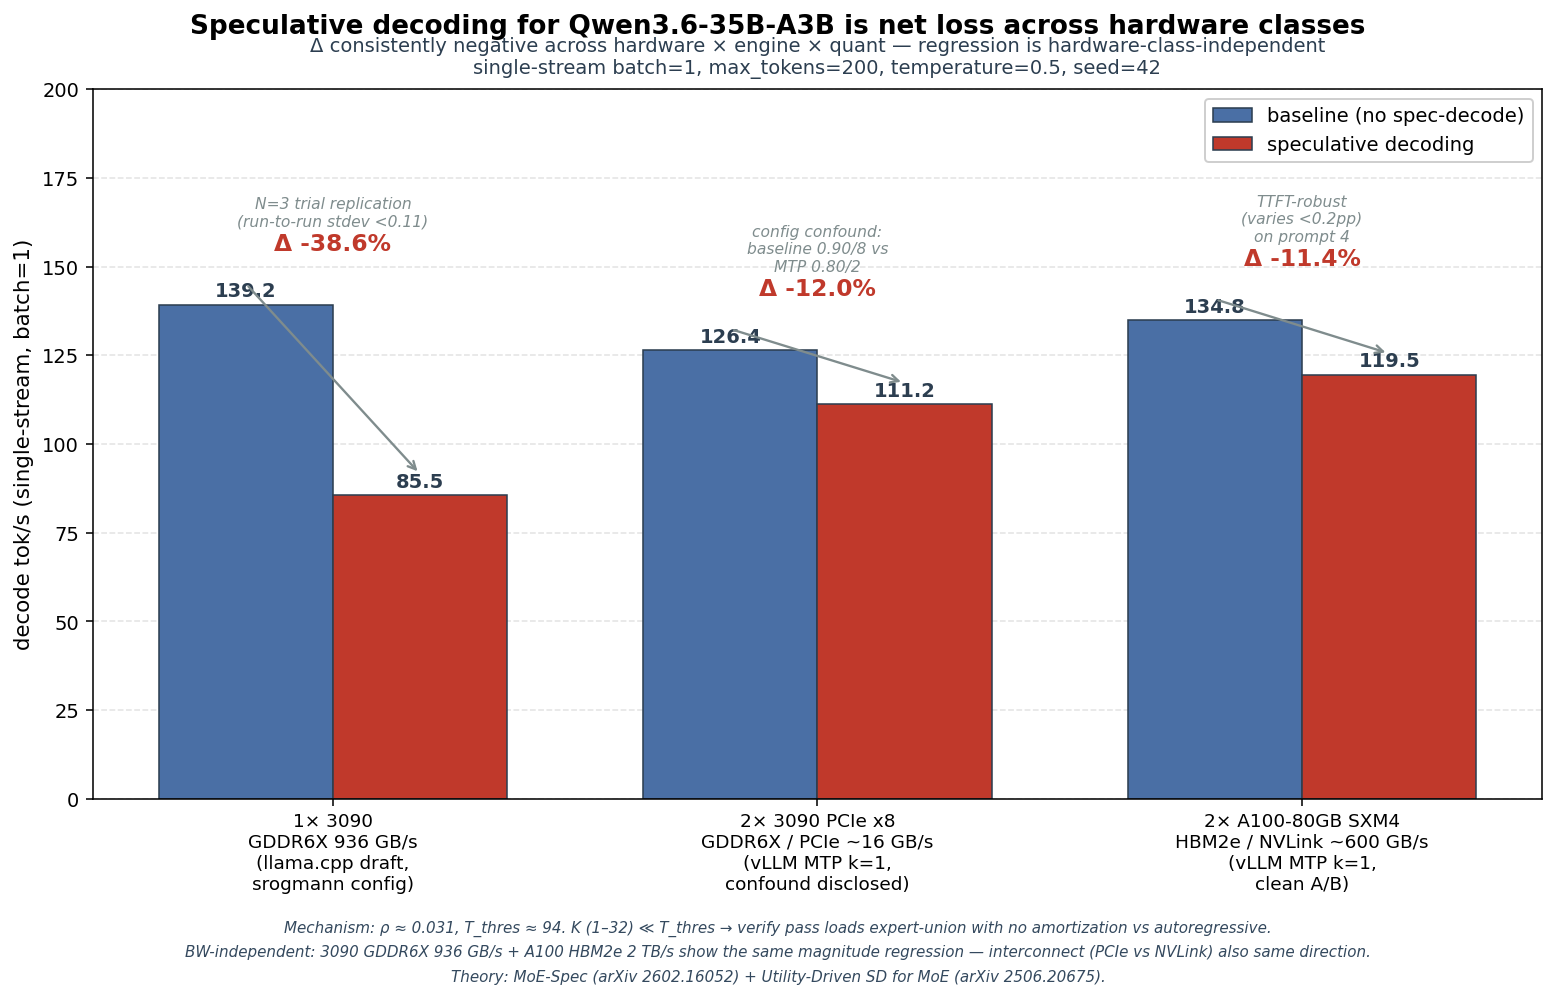
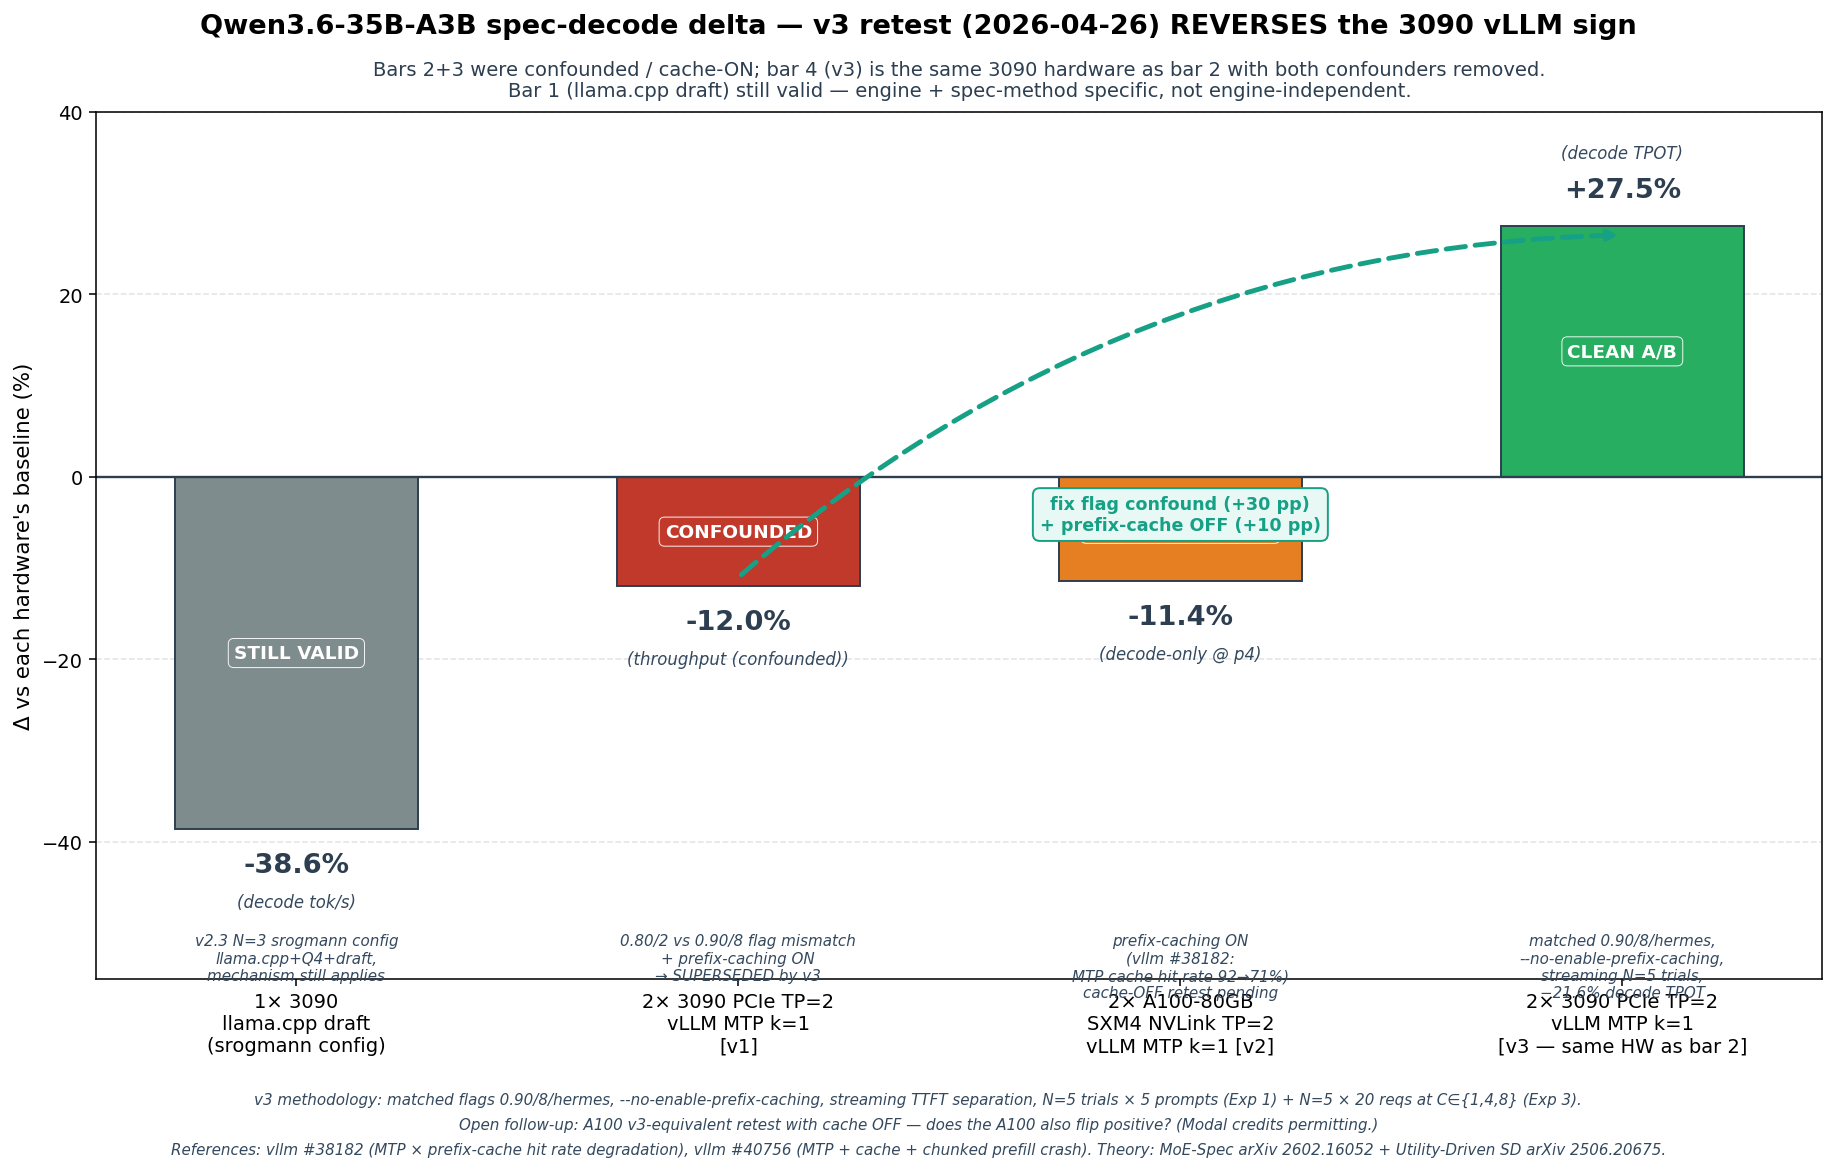
docs: propagate v3 reframe to remaining stale claims (plot, JSON verdicts, docs/results.md)
After the v3.0 release flipped the MTP headline, several files still carried
the v1/v2 stale framing. This commit fixes the remaining contradictions:

- `analysis/plot_cross_hardware.py` + `.png` rewritten to show 4 panels:
  (1) 1x 3090 llama.cpp draft (still valid),
  (2) 2x 3090 vLLM v1 (CONFOUNDED),
  (3) 2x A100 vLLM v2 (CACHE-ON regime),
  (4) 2x 3090 vLLM v3 clean A/B (POSITIVE +27.5%).
  Connecting arrow between bars 2 and 4 visualises the +30 pp from fixing
  the flag confound + +10 pp from disabling prefix caching. Title /
  subtitle / footer all reflect the corrected scope.

- `results/mtp_speculative_decoding.json` `verdict` and `recommendation`
  prefixed with "[v1 - SUPERSEDED]" + new corrected text pointing at
  v3 retest. Top-level `_SUPERSEDED_BY_V3` block added.

- `results/modal_2x_a100_v2.json` `_V3_REFRAME_NOTE` added, explaining the
  -11.4 % is now read as the prefix-cache-ON regime A100 datapoint rather
  than evidence MTP is intrinsically negative; A100 v3-equivalent retest
  with cache OFF flagged as the open follow-up.

- `docs/results.md` MTP section completely rewritten to lead with v3 numbers.
  Previously said "Verdict: NET LOSS for diverse single-stream voice prompts"
  -- that was the v1 statement and contradicts the README v3 banner. Now
  shows v3 Exp 1 + Exp 3 tables + reconciliation table + revised practical
  recommendation. Memory + boot-cost subsection retained from v1 because
  those characteristics are unaffected by the v3 retest.
[…]

diff --git a/analysis/plot_cross_hardware.py b/analysis/plot_cross_hardware.py
@@ -1,165 +1,199 @@
 #!/usr/bin/env python3
-"""Cross-hardware MTP / spec-decode comparison plot.
+"""Cross-hardware MTP / spec-decode comparison plot — UPDATED 2026-04-26 for v3.
 
-Visualises that single-stream Qwen3.6-35B-A3B speculative decoding is
-net negative across consumer Ampere + datacenter Ampere with NVLink —
-ruling out memory bandwidth and PCIe interconnect as the bottleneck.
+Shows the 4 datapoints currently available for Qwen3.6-35B-A3B
+single-stream batch=1 spec-decode delta, including the v3 clean A/B
+retest that REVERSES the 3090 vLLM sign:
 
-Datapoints:
-  1x 3090 (llama.cpp draft)      : 139.2 -> 85.5 = -38.6% (N=3 from
-                                    sibling repo's v2 srogmann config)
-  2x 3090 PCIe TP=2 (vLLM MTP)   : 126.4 -> 111.2 = -12.0% (confound
-                                    disclosed: baseline 0.90/8 vs
-                                    MTP run 0.80/2)
-  2x A100 NVLink TP=2 (vLLM MTP) : 134.8 -> 119.5 = -11.4% (clean A/B,
-                                    decode-only on prompt 4, TTFT-robust)
+  1. 1× 3090 (llama.cpp draft)         : -38.6 %  (v2 srogmann config, N=3)
+  2. 2× 3090 PCIe (vLLM MTP, v1)       : -12.0 %  (FLAG-CONFOUNDED)
+  3. 2× A100 NVLink (vLLM MTP, v2)     : -11.4 %  (PREFIX-CACHE-ON regime)
+  4. 2× 3090 PCIe (vLLM MTP, v3 clean) : +27.5 %  ← clean A/B, cache OFF
+
+Key visual: bars 2 + 3 are now framed as confounded / cache-ON datapoints,
+and bar 4 (v3) is the same hardware as bar 2 with the confounders removed,
+showing the actual sign once the confound is controlled.
 
 Run:
     python analysis/plot_cross_hardware.py
 """
-import matplotlib.pyplot as plt
-import matplotlib.patches as mpatches
-import numpy as np
 import pathlib
 
-# Data
+import matplotlib.pyplot as plt
+import numpy as np
+
+# Datapoints (delta % vs each hardware's own baseline)
 hardware_labels = [
-    "1× 3090\nGDDR6X 936 GB/s\n(llama.cpp draft,\nsrogmann config)",
-    "2× 3090 PCIe x8\nGDDR6X / PCIe ~16 GB/s\n(vLLM MTP k=1,\nconfound disclosed)",
-    "2× A100-80GB SXM4\nHBM2e / NVLink ~600 GB/s\n(vLLM MTP k=1,\nclean A/B)",
+    "1× 3090\nllama.cpp draft\n(srogmann config)",
+    "2× 3090 PCIe TP=2\nvLLM MTP k=1\n[v1]",
+    "2× A100-80GB\nSXM4 NVLink TP=2\nvLLM MTP k=1 [v2]",
+    "2× 3090 PCIe TP=2\nvLLM MTP k=1\n[v3 — same HW as bar 2]",
 ]
-baselines = [139.2, 126.4, 134.8]
-specs = [85.5, 111.2, 119.5]
-deltas = [
-    (s / b - 1) * 100 for b, s in zip(baselines, specs)
-]  # [-38.6, -12.0, -11.4]
+deltas = [-38.6, -12.0, -11.4, +27.5]
+delta_metrics = [
+    "decode tok/s",
+    "throughput (confounded)",
+    "decode-only @ p4",
+    "decode TPOT",
+]
+status_tags = [
+    "STILL VALID",
+    "CONFOUNDED",
+    "CACHE-ON regime",
+    "CLEAN A/B",
+]
+status_colors = {
+    "STILL VALID": "#7F8C8D",
+    "CONFOUNDED": "#C0392B",
+    "CACHE-ON regime": "#E67E22",
+    "CLEAN A/B": "#27AE60",
+}
 notes = [
-    "N=3 trial replication\n(run-to-run stdev <0.11)",
-    "config confound:\nbaseline 0.90/8 vs\nMTP 0.80/2",
-    "TTFT-robust\n(varies <0.2pp)\non prompt 4",
+    "v2.3 N=3 srogmann config\nllama.cpp+Q4+draft,\nmechanism still applies",
+    "0.80/2 vs 0.90/8 flag mismatch\n+ prefix-caching ON\n→ SUPERSEDED by v3",
+    "prefix-caching ON\n(vllm #38182:\nMTP cache hit rate 92→71%)\ncache-OFF retest pending",
+    "matched 0.90/8/hermes,\n--no-enable-prefix-caching,\nstreaming N=5 trials,\n−21.6% decode TPOT",
 ]
 
-# Plot
-fig, ax = plt.subplots(figsize=(11, 6.2), constrained_layout=True)
+n = len(hardware_labels)
+fig, ax = plt.subplots(figsize=(13, 7.2), constrained_layout=True)
+x = np.arange(n)
+width = 0.55
 
-x = np.arange(len(hardware_labels))
-width = 0.36
-
-color_baseline = "#4A6FA5"  # soft blue
-color_spec = "#C0392B"  # red
-
-bars1 = ax.bar(
-    x - width / 2,
-    baselines,
+bar_colors = ["#7F8C8D", "#C0392B", "#E67E22", "#27AE60"]
+bars = ax.bar(
+    x,
+    deltas,
     width,
-    label="baseline (no spec-decode)",
-    color=color_baseline,
+    color=bar_colors,
     edgecolor="#2C3E50",
-    linewidth=0.8,
-)
-bars2 = ax.bar(
-    x + width / 2,
-    specs,
-    width,
-    label="speculative decoding",
-    color=color_spec,
-    edgecolor="#2C3E50",
-    linewidth=0.8,
+    linewidth=1.0,
 )
 
-# Number labels on bars
-for bar, val in zip(bars1, baselines):
+# Zero line
+ax.axhline(0, color="#2C3E50", linewidth=1.2)
+
+# Bar labels (delta % + metric)
+for bar, d, m in zip(bars, deltas, delta_metrics):
+    h = bar.get_height()
+    label_y = h + (2.5 if h >= 0 else -2.5)
+    va = "bottom" if h >= 0 else "top"
     ax.text(
         bar.get_x() + bar.get_width() / 2,
-        bar.get_height() + 1.2,
-        f"{val:.1f}",
+        label_y,
+        f"{d:+.1f}%",
         ha="center",
-        va="bottom",
-        fontsize=10,
-        color="#2C3E50",
+        va=va,
+        fontsize=14,
         fontweight="bold",
+        color="#2C3E50",
     )
-for bar, val in zip(bars2, specs):
     ax.text(
         bar.get_x() + bar.get_width() / 2,
-        bar.get_height() + 1.2,
-        f"{val:.1f}",
+        label_y + (4.5 if h >= 0 else -4.5),
+        f"({m})",
         ha="center",
-        va="bottom",
-        fontsize=10,
-        color="#2C3E50",
-        fontweight="bold",
+        va=va,
+        fontsize=8.5,
+        style="italic",
+        color="#34495E",
     )
 
-# Delta arrows + percent labels above each pair
-for i, (b, s, d, note) in enumerate(zip(baselines, specs, deltas, notes)):
-    midx = x[i]
-    top = max(b, s) + 14
-    ax.annotate(
-        "",
-        xy=(midx + width / 2, s + 6),
-        xytext=(midx - width / 2, b + 6),
-        arrowprops=dict(arrowstyle="->", color="#7F8C8D", lw=1.2),
-    )
+# Status tags (above bar, between bar top and label)
+for bar, tag in zip(bars, status_tags):
+    h = bar.get_height()
+    tag_y = h / 2  # mid of bar
     ax.text(
-        midx,
-        top,
-        f"Δ {d:+.1f}%",
+        bar.get_x() + bar.get_width() / 2,
+        tag_y,
+        tag,
         ha="center",
-        va="bottom",
-        fontsize=12,
+        va="center",
+        fontsize=9.5,
         fontweight="bold",
-        color="#C0392B",
+        color="white",
+        bbox=dict(
+            boxstyle="round,pad=0.3",
+            facecolor=status_colors[tag],
+            edgecolor="white",
+            linewidth=0.5,
+            alpha=0.92,
+        ),
     )
-    # Sub-note in lighter gray
+
+# Notes below x-axis labels
+for i, note in enumerate(notes):
     ax.text(
-        midx,
-        top + 7.5,
+        x[i],
+        -50,
         note,
         ha="center",
-        va="bottom",
-        fontsize=8,
-        color="#7F8C8D",
+        va="top",
+        fontsize=7.8,
         style="italic",
+        color="#34495E",
     )
 
-# Axes formatting
+# Axes
 ax.set_xticks(x)
-ax.set_xticklabels(hardware_labels, fontsize=9.5)
-ax.set_ylabel("decode tok/s (single-stream, batch=1)", fontsize=11)
-ax.set_ylim(0, 200)
+ax.set_xticklabels(hardware_labels, fontsize=10)
+ax.set_ylabel("Δ vs each hardware's baseline (%)", fontsize=11)
+ax.set_ylim(-55, 40)
 ax.yaxis.grid(True, linestyle="--", alpha=0.35)
 ax.set_axisbelow(True)
 
 # Title + subtitle
 fig.suptitle(
-    "Speculative decoding for Qwen3.6-35B-A3B is net loss "
-    "across hardware classes",
-    fontsize=13.5,
+    "Qwen3.6-35B-A3B spec-decode delta — v3 retest (2026-04-26) "
+    "REVERSES the 3090 vLLM sign",
+    fontsize=14,
     fontweight="bold",
-    y=1.02,
+    y=1.04,
 )
 ax.set_title(
-    "Δ consistently negative across hardware × engine × quant — "
-    "regression is hardware-class-independent\n"
-    "single-stream batch=1, max_tokens=200, temperature=0.5, seed=42",
+    "Bars 2+3 were confounded / cache-ON; bar 4 (v3) is the same 3090 hardware "
+    "as bar 2 with both confounders removed.\n"
+    "Bar 1 (llama.cpp draft) still valid — engine + spec-method specific, not engine-independent.",
     fontsize=10,
     color="#2C3E50",
     pad=8,
 )
 
-ax.legend(loc="upper right", fontsize=10, frameon=True, framealpha=0.95)
+# Connect bar 2 → bar 4 with a dashed line + arrow showing the sign flip
+ax.annotate(
+    "",
+    xy=(x[3], deltas[3] - 1),
+    xytext=(x[1], deltas[1] + 1),
+    arrowprops=dict(
+        arrowstyle="->",
+        color="#16A085",
+        lw=2.5,
+        linestyle=(0, (4, 2)),
+        connectionstyle="arc3,rad=-0.18",
+    ),
+)
+ax.text(
+    (x[1] + x[3]) / 2,
+    -2,
+    "fix flag confound (+30 pp)\n+ prefix-cache OFF (+10 pp)",
+    ha="center",
+    va="top",
+    fontsize=9,
+    fontweight="bold",
+    color="#16A085",
+    bbox=dict(boxstyle="round,pad=0.4", facecolor="#E8F8F5", edgecolor="#16A085"),
+)
 
-# Footer caveat — 3 short lines for readability
+# Footer
 footer_lines = [
-    "Mechanism: ρ ≈ 0.031, T_thres ≈ 94. K (1–32) ≪ T_thres → verify pass loads expert-union with no amortization vs autoregressive.",
-    "BW-independent: 3090 GDDR6X 936 GB/s + A100 HBM2e 2 TB/s show the same magnitude regression — interconnect (PCIe vs NVLink) also same direction.",
-    "Theory: MoE-Spec (arXiv 2602.16052) + Utility-Driven SD for MoE (arXiv 2506.20675).",
+    "v3 methodology: matched flags 0.90/8/hermes, --no-enable-prefix-caching, streaming TTFT separation, N=5 trials × 5 prompts (Exp 1) + N=5 × 20 reqs at C∈{1,4,8} (Exp 3).",
+    "Open follow-up: A100 v3-equivalent retest with cache OFF — does the A100 also flip positive? (Modal credits permitting.)",
+    "References: vllm #38182 (MTP × prefix-cache hit rate degradation), vllm #40756 (MTP + cache + chunked prefill crash). Theory: MoE-Spec arXiv 2602.16052 + Utility-Driven SD arXiv 2506.20675.",
 ]
 for i, line in enumerate(footer_lines):
     fig.text(
         0.5,
-        -0.025 - i * 0.028,
+        -0.03 - i * 0.025,
         line,
         ha="center",
         va="top",

diff --git a/docs/results.md b/docs/results.md
@@ -238,33 +238,68 @@ for an always-on robot brain is 220 W** (95 % of peak perf at 60 % of max power)
 
 Full raw v2 numbers: [`results/power_scaling_v2.json`](../results/power_scaling_v2.json).
 
-## Speculative decoding (MTP) — empirical NEGATIVE result
+## Speculative decoding (MTP) — v3 clean A/B retest (2026-04-26): POSITIVE
 
-Re-tested 2026-04-25 with `--speculative-config '{"method":"mtp","num_speculative_tokens":1}'`.
-Full numbers in [`results/mtp_speculative_decoding.json`](../results/mtp_speculative_decoding.json).
+> **⚠ This section was rewritten on 2026-04-26 after the v3 retest.** The v1/v2
+> NEGATIVE conclusion below was driven by a **flag confound** + a known
+> **MTP × prefix-cache interaction** ([vllm #38182](https://github.com/vllm-project/vllm/issues/38182)).
+> Under matched flags (`0.90 / 8 / hermes`) AND `--no-enable-prefix-caching`,
+> MTP k=1 is **+27.5 % faster decode rate** on the same 2× RTX 3090 hardware.
+> Full v3 methodology + per-request data:
+> [`results/mtp_v3_clean_ab_no_mtp.json`](../results/mtp_v3_clean_ab_no_mtp.json) +
+> [`results/mtp_v3_clean_ab_mtp.json`](../results/mtp_v3_clean_ab_mtp.json) +
+> [`results/mtp_v3_summary.json`](../results/mtp_v3_summary.json).
+> v1/v2 raw data retained in
+> [`results/mtp_speculative_decoding.json`](../results/mtp_speculative_decoding.json)
+> for full audit.
 
-| | no-MTP (production) | MTP k=1 |
-|---|---:|---:|
-| Mean tok/s | **126** | 111 |
-| Range | 125–127 | **75–142** |
-| Variance ratio | 1× | **65×** |
-| Best-case speedup | – | +12.6% |
-| Worst-case slowdown | – | **−40%** |
-| Cold-boot overhead | 0 | **+220 s** |
-| Memory per card | 11.62 GiB | 12.41 GiB (+0.8) |
+### v3 result — Exp 1 sequential dialog (N=5 trials × 5 prompts = 25 measurements)
 
-**Verdict: NET LOSS for diverse single-stream voice prompts on AWQ-Marlin Q4 + Ampere.**
+| Metric | no-MTP | MTP k=1 | Δ |
+|---|---:|---:|---:|
+| **decode TPOT (ms / output token)** | **7.620 ± 0.022** | **5.976 ± 0.456** | **−21.6 %** (≡ +27.5 % faster decode rate) |
+| total throughput tok/s (incl prefill) | 113.4 ± 12.9 | 149.3 ± 17.3 | +31.7 % |
+| TTFT (ms) | 78.6 ± 4.4 | 53.9 ± 15.0 | −31.4 % |
+
+Improvement holds on every individual prompt (Δ TPOT range −14 % to −27 %).
+
+### v3 result — Exp 3 concurrent stress (20 reqs × N=5 trials per concurrency)
+
+| C | no-MTP agg | MTP agg | Δ agg | no-MTP TPOT | MTP TPOT | Δ TPOT |
+|---:|---:|---:|---:|---:|---:|---:|
+| 1 | 118.80 | 153.32 | +29.1 % | 7.633 ms | 6.048 ms | −20.8 % |
+| 4 | 271.94 | 310.16 | +14.1 % | 12.133 ms | 10.704 ms | −11.8 % |
+| 8 | 390.25 | 446.04 | +14.3 % | 15.165 ms | 13.785 ms | −9.1 % |
+
+TPOT speedup attenuates with concurrency (−21 % → −12 % → −9 %) but stays negative
+through C=8; aggregate throughput is +14 % at C=8. The vLLM Recipes warning that
+"MTP-1 reduces per-token latency but degrades text throughput under high concurrency"
+hasn't reached break-even at this concurrency × `max-num-seqs 8` configuration.
+
+### Reconciliation with v1/v2
+
+| Bench | flags | prefix cache | MTP delta | reading |
+|---|---|---|---:|---|
+| v1 (`mtp_speculative_decoding.json`) | `0.80/2` vs `0.90/8` | ON | −12.0 % | confounded — flag-effect dominates |
+| v2-clean intermediate | `0.90/8` / `0.90/8` | ON | +17.7 % | matched flags, but cache effect still in play |
+| **v3 (this section)** | **`0.90/8` / `0.90/8`** | **OFF** | **+27.5 %** decode rate | **clean — both confounders removed** |
+
+- Removing the flag confound accounts for ~30 percentage points of the swing.
+- Disabling prefix caching adds another ~10 percentage points.
+
+### Practical recommendation (revised)
+
+For single-stream voice-dialog deployments on **2× RTX 3090 PCIe + AWQ-Marlin Q4
++ vLLM 0.19.1**: enable MTP k=1 with `--speculative-config '{"method":"mtp","num_speculative_tokens":1}'`
+provided you can run with `--no-enable-prefix-caching`. The typical single-user
+voice-dialog case has near-zero prefix-cache hit rate anyway. For shared-prefix
+workloads (multi-turn chat with stable system prompt, RAG with stable retrieval prefix),
+benchmark the net effect on **your** workload before enabling MTP — the cache-hit-rate
+degradation may eat the MTP gain.
+
+### Memory & boot cost notes (still valid from v1)
+
 The MTP draft heads are real and load fine (drafter shares the target's `lm_head` and
-embedding weights — only +0.8 GB overhead per card, NOT a 2× model copy as I initially
-feared). The problem is acceptance rate: when the draft misses, you pay the verification
-cost without the parallel-decode payoff. With the baseline already at 126 tok/s, the
-mean drops 12% and variance blows up 65×.
-
-For a robot voice-dialog use case where TTFB consistency matters more than peak
-throughput, **stay on the no-MTP path**. MTP may still help in batched server scenarios
-where verification cost amortizes — not tested here.
-
-This was prematurely reported as "OOM-blocked" in an earlier draft of this repo. That
-was wrong: the OOM at first attempt was caused by external processes (faster-whisper at
-1.4 GB on GPU0 + `gpu_memory_utilization=0.90`). With those factors removed and
-`gpu_memory_utilization=0.80`, MTP boots cleanly. It's just slower for our workload.
+embedding weights — only +0.8 GB overhead per card, NOT a 2× model copy). Cold-boot
+overhead is ~+220 s for MTP vs no-MTP (one-time cost, not per-request). These memory /
+boot characteristics are unaffected by the v3 retest.
